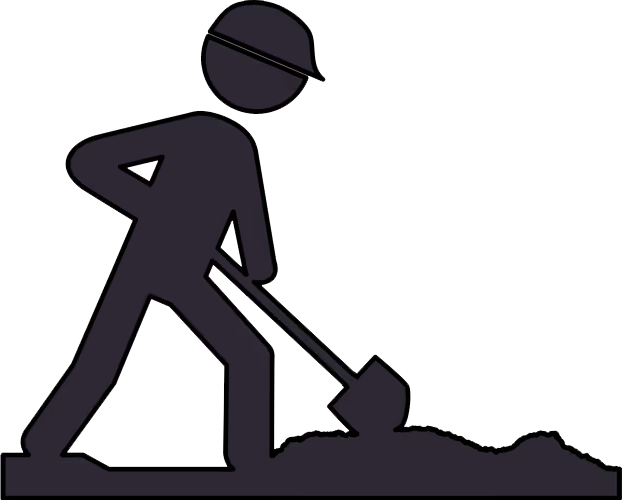
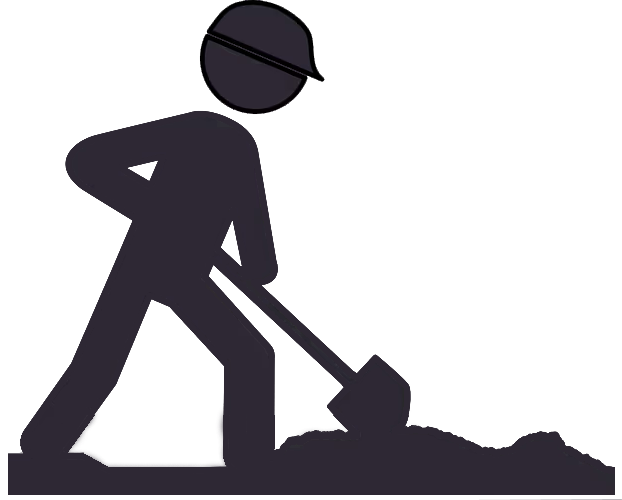
tooltip sync to percentage bar

diff --git a/RoadPatcher.Web/wwwroot/css/global.css b/RoadPatcher.Web/wwwroot/css/global.css
@@ -229,13 +229,10 @@ p {
 
 .custom-tooltip {
     text-align: center;
-    top: 14px;
+    top: 20px;
 }
 
-.tooltip-box {
-    min-width: 300px;
-}
-
+.detached-arrow.tooltip-arrow,
 .custom-tooltip .tooltip-arrow {
     width: 0;
     height: 0;
@@ -245,9 +242,19 @@ p {
     margin: -1px auto 0;
 }
 
+.detached-arrow.tooltip-arrow {
+    margin-top: 5px;
+    margin-left: -8px;
+}
+
 
 .custom-tooltip .tooltip-box {
-    border: 1px solid #164046 !important;
+    min-width: 246px;
+    left: -70px;
+}
+
+.achieved-box {
+    max-width: 108px;
 }
 
 .bg-light-orange {
@@ -267,7 +274,8 @@ p {
 }
 
 .tooltip-box .border-end { 
-    border-color: #fff !important;
+    border-width: 2px !important;
+    border-color: #0000005c !important;
 }
 
 .progress-circle {
@@ -282,6 +290,8 @@ p {
 .donation-progress .progress {
     height: 7px;
     --bs-progress-bg: var(--bs-gray-300);
+    /*max-width: 90%;*/
+    /*margin: 0 auto;*/
 }
 
 .donation-progress {
@@ -290,8 +300,12 @@ p {
 
 .tooltip-content {
     border: 1px solid;
-    padding: 3px 10px;
     border-radius: 20px !important;
+    background-image: url(../img/worker-bg.png);
+    background-size: 175px;
+    background-repeat: repeat-x;
+    background-position: bottom;
+    padding: 10px 10px 0;
 }
 
 [dir=ltr] .uppy-Dashboard--singleFile.uppy-size--height-md .uppy-Dashboard-Item-action--remove {
@@ -437,6 +451,203 @@ gmp-place-autocomplete {
     background-color: rgba(var(--bs-primary-rgb), var(--bs-bg-opacity)) !important;
 }
 
+.wrapper-grid {
+    --animation-duration: 2.1s;
+    --cube-color: #0000;
+    --highlight-color: #000;
+    --cube-width: 28px;
+    --cube-height: 28px;
+    --font-size: 1.8em;
 
+    position: relative;
+    inset: 0;
+    grid-template-columns: repeat(7, var(--cube-width));
+    grid-template-rows: auto;
+    grid-gap: 0;
 
+    width: calc(7 * var(--cube-width));
+    height: var(--cube-height);
+    perspective: 350px;
 
+    font-size: var(--font-size);
+    font-weight: 800;
+    top: 40px;
+    color: transparent;
+    display: none;
+}
+
+.tooltip-loading .wrapper-grid {
+    display: grid;
+}
+
+.cube {
+    position: relative;
+    transform-style: preserve-3d;
+}
+
+.face {
+    position: absolute;
+    display: flex;
+    align-items: center;
+    justify-content: center;
+    width: var(--cube-width);
+    height: var(--cube-height);
+    background-color: var(--cube-color);
+}
+.face-left,
+.face-right,
+.face-back,
+.face-front {
+    box-shadow:
+            inset 0 0 2px 1px #0001,
+            inset 0 0 12px 1px #fff1;
+}
+.face-front {
+    transform: rotateY(0deg) translateZ(calc(var(--cube-width) / 2));
+}
+.face-back {
+    transform: rotateY(180deg) translateZ(calc(var(--cube-width) / 2));
+    opacity: 0.6;
+}
+.face-left {
+    transform: rotateY(-90deg) translateZ(calc(var(--cube-width) / 2));
+    opacity: 0.6;
+}
+.face-right {
+    transform: rotateY(90deg) translateZ(calc(var(--cube-width) / 2));
+    opacity: 0.6;
+}
+.face-top {
+    height: var(--cube-width);
+    transform: rotateX(90deg) translateZ(calc(var(--cube-width) / 2));
+    opacity: 0.8;
+}
+.face-bottom {
+    height: var(--cube-width);
+    transform: rotateX(-90deg)
+    translateZ(calc(var(--cube-height) - var(--cube-width) * 0.5));
+    opacity: 0.8;
+}
+
+.cube:nth-child(1) {
+    z-index: 0;
+    animation-delay: 0s;
+}
+.cube:nth-child(2) {
+    z-index: 1;
+    animation-delay: 0.2s;
+}
+.cube:nth-child(3) {
+    z-index: 2;
+    animation-delay: 0.4s;
+}
+.cube:nth-child(4) {
+    z-index: 3;
+    animation-delay: 0.6s;
+}
+.cube:nth-child(5) {
+    z-index: 2;
+    animation-delay: 0.8s;
+}
+.cube:nth-child(6) {
+    z-index: 1;
+    animation-delay: 1s;
+}
+.cube:nth-child(7) {
+    z-index: 0;
+    animation-delay: 1.2s;
+}
+
+.cube {
+    animation: translate-z var(--animation-duration) ease-in-out infinite;
+}
+.cube .face {
+    animation:
+            face-color var(--animation-duration) ease-in-out infinite,
+                /* face-glow var(--animation-duration) ease-in-out infinite, */ edge-glow
+            var(--animation-duration) ease-in-out infinite;
+    animation-delay: inherit;
+}
+.cube .face.face-front {
+    animation:
+            face-color var(--animation-duration) ease-in-out infinite,
+            face-glow var(--animation-duration) ease-in-out infinite,
+            edge-glow var(--animation-duration) ease-in-out infinite;
+    animation-delay: inherit;
+}
+
+@keyframes translate-z {
+    0%,
+    40%,
+    100% {
+        transform: translateZ(-2px);
+    }
+    30% {
+        transform: translateZ(16px) translateY(-1px);
+    }
+}
+@keyframes face-color {
+    0%,
+    50%,
+    100% {
+        background-color: var(--cube-color);
+    }
+    10% {
+        background-color: var(--highlight-color);
+    }
+}
+@keyframes face-glow {
+    0%,
+    50%,
+    100% {
+        color: #fff0;
+        filter: none;
+    }
+    30% {
+        color: #fff;
+        filter: drop-shadow(0 14px 10px var(--highlight-color));
+    }
+}
+@keyframes edge-glow {
+    0%,
+    40%,
+    100% {
+        box-shadow:
+                inset 0 0 2px 1px #0001,
+                inset 0 0 12px 1px #fff1;
+    }
+    30% {
+        box-shadow: 0 0 2px 0 var(--highlight-color);
+    }
+}
+
+.tooltip-loading .tooltip-content-inner {
+    visibility: hidden;
+    zoom: 0.76;
+}
+
+.donation-btn {
+    margin-top: 120px;
+}
+
+.donation-btn button {
+    border: 3px solid red !important;
+    border-radius: 34px !important;
+}
+
+.donation-btn button i {
+    position: relative;
+    top: -2px;
+}
+
+.donation-btn button i.la-heart {
+    color: red !important;
+}
+
+.donation-btn button i.la-hand-holding-usd {
+    font-size: 22px;
+}
+
+.tooltip-box .text-secondary {
+    color: grey !important;
+}

diff --git a/RoadPatcher.Web/Helpers/PostHelper.cs b/RoadPatcher.Web/Helpers/PostHelper.cs
@@ -4,6 +4,7 @@ public static class PostHelper
 {
 	public static decimal GetRaisedPercentage(decimal cost, decimal raised)
 	{
+		return 100;
 		return Math.Round((raised / cost) * 100, 2);
 	}
 	
@@ -25,5 +26,14 @@ public static class PostHelper
 			_ => "success"
 		};
 	}
+	
+	public static decimal GetTooltipBoxPercentage(decimal raisedPercentage)
+	{
+		return Math.Max(31, Math.Min(raisedPercentage, 69));
+	}
 
+	public static decimal GetTooltipProgressPercentage(decimal raisedPercentage)
+	{
+		return Math.Max(5, Math.Min(raisedPercentage, 95));
+	}
 }
